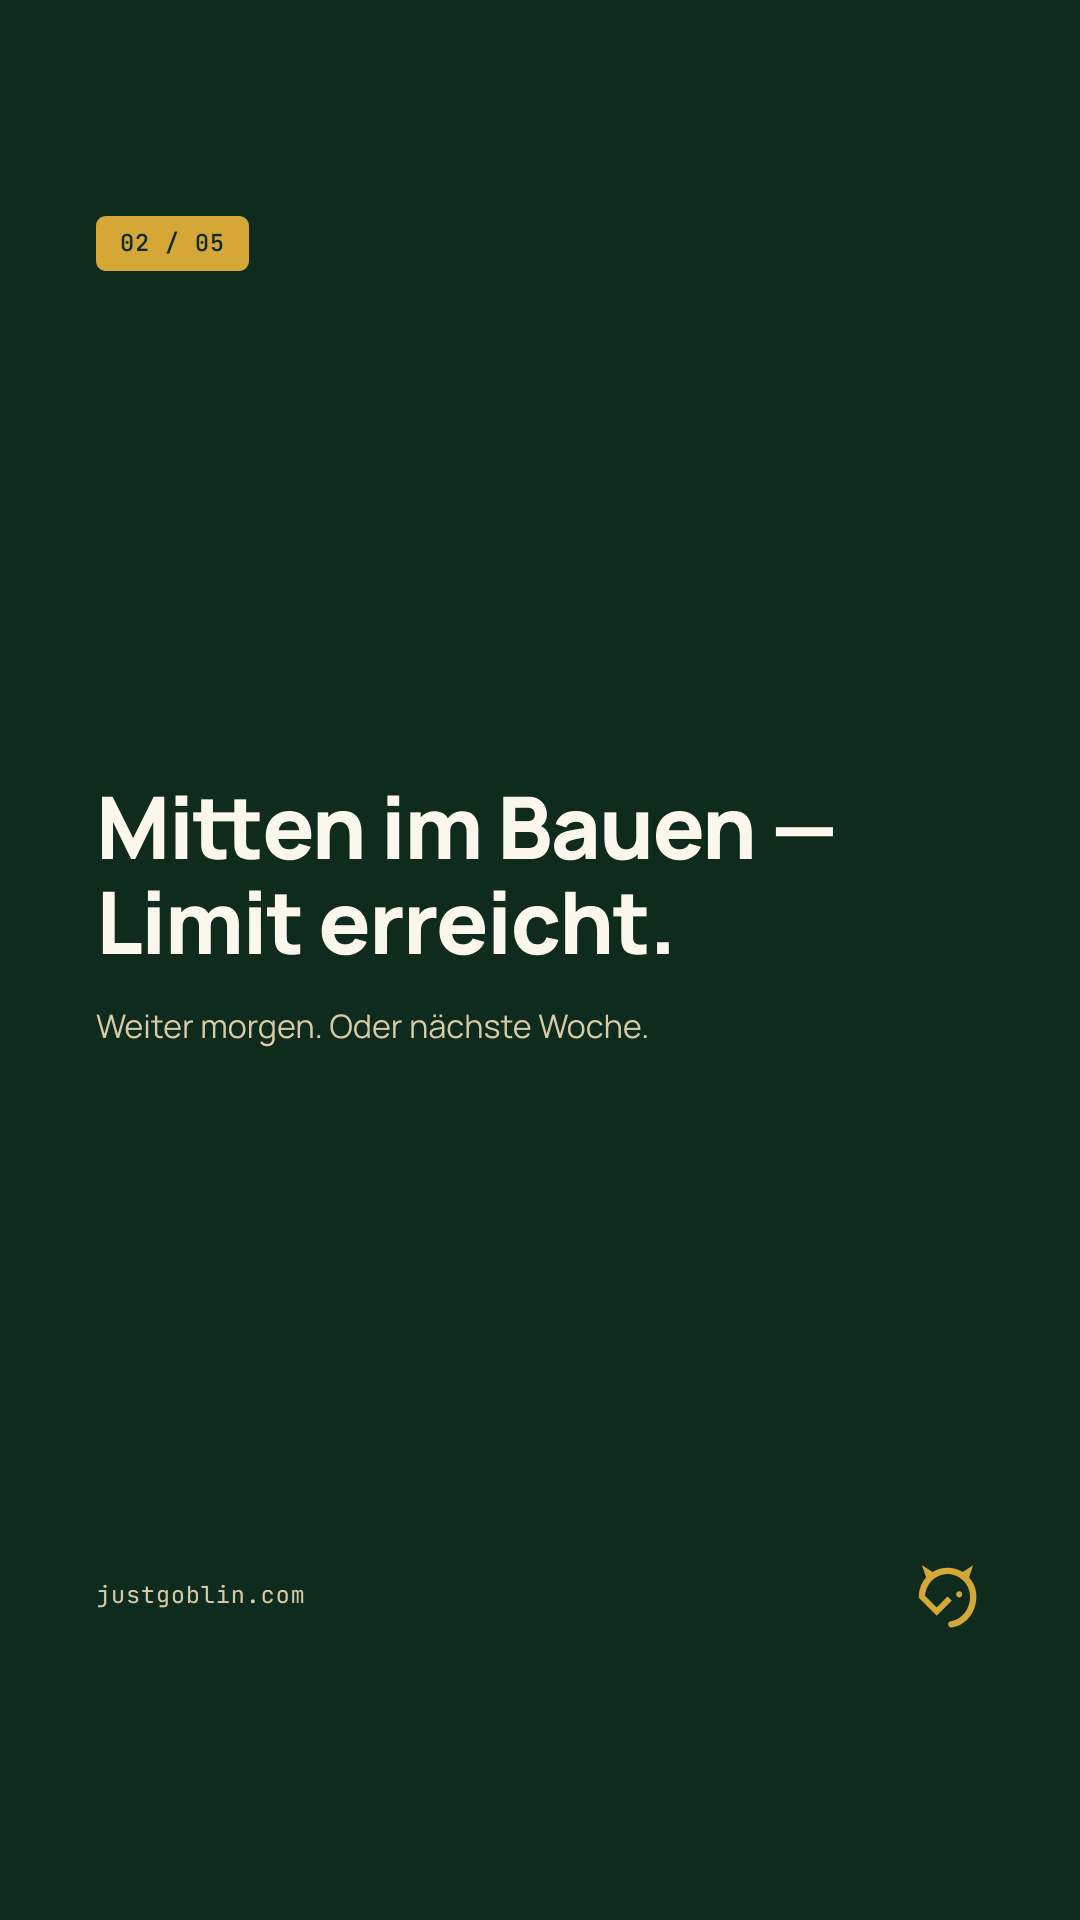
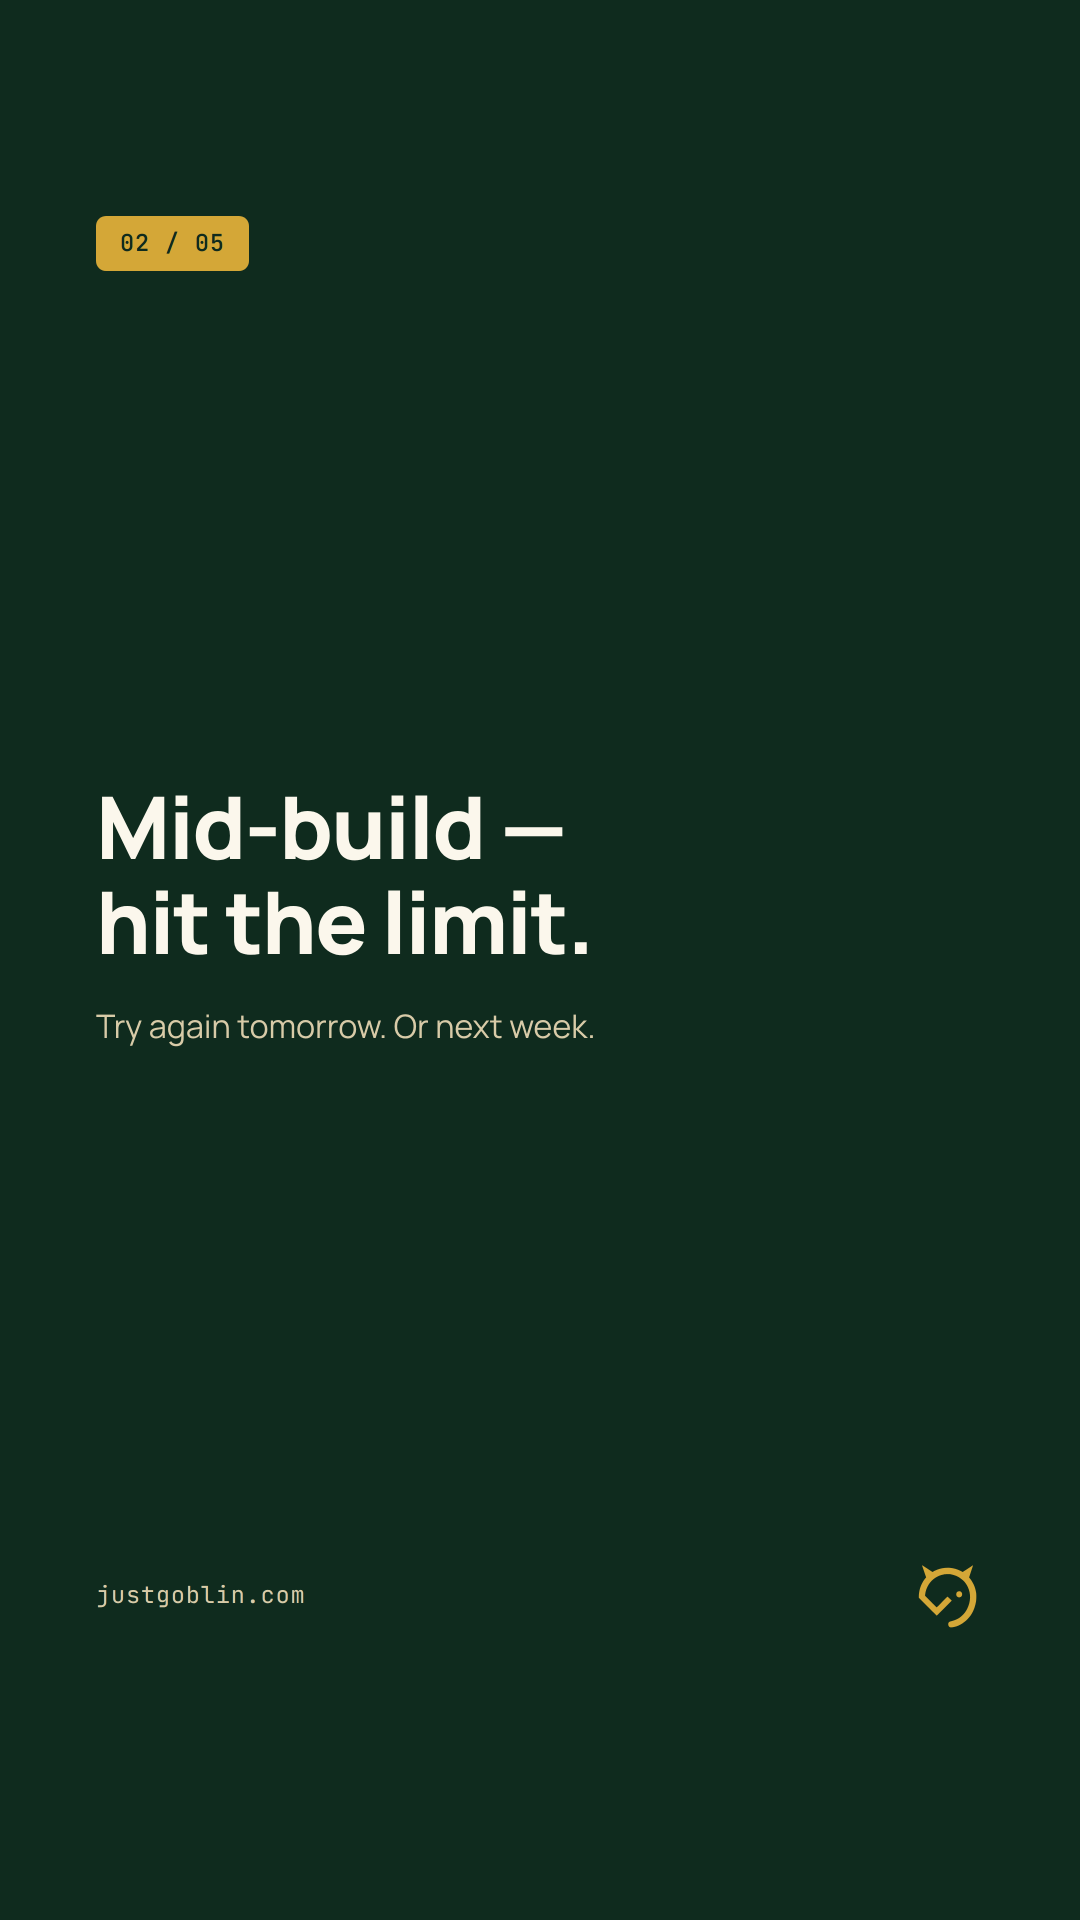
kennst-du-das: translate to English
"Sound familiar?" replaces "Kennst du das?" as the hook. All on-image copy
and the caption now in English.

Changed region(s): [[0.0917, 0.4062, 0.7028, 0.5], [0.0917, 0.5312, 0.5806, 0.5625], [0.7333, 0.4062, 0.7639, 0.4375]]

diff --git a/content/social/posts/kennst-du-das/caption.md b/content/social/posts/kennst-du-das/caption.md
@@ -1,11 +1,11 @@
-Kennst du das?
+Sound familiar?
 
-Du bist mitten drin — und dann ist das Limit
-erreicht. Du willst schnell etwas ändern, aber
-der Laptop steht zuhause. Du zahlst jeden Monat
-für das teuerste Modell und kommst trotzdem
-nicht ans Ziel.
+You’re mid-build — and then you hit the limit.
+You want to change something fast, but your
+laptop’s at home. You’re paying every month
+for the priciest model and still not getting
+there.
 
-Goblin fängt genau dort an.
+Goblin starts right there.
 
-Link in Bio.
+Link in bio.
